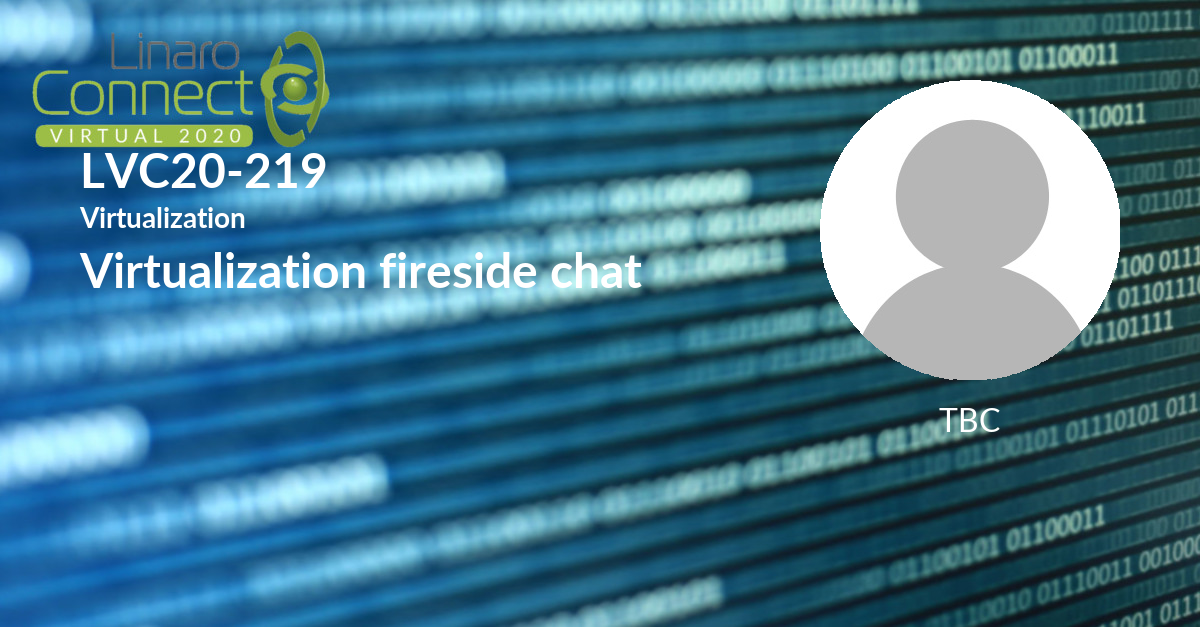
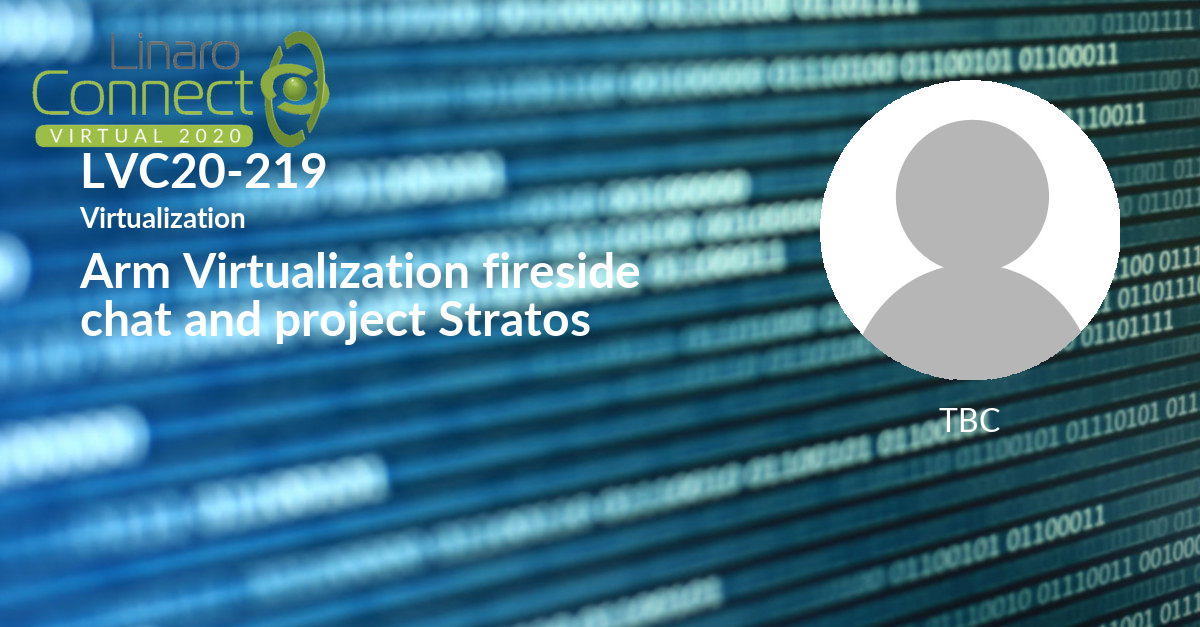
Session update for session-update-200916-1302

Changed region(s): [[0.0617, 0.3939, 0.555, 0.5455]]

diff --git a/_posts/lvc20/sessions/2020-09-16-lvc20-219.md b/_posts/lvc20/sessions/2020-09-16-lvc20-219.md
@@ -3,7 +3,7 @@ categories:
 - lvc20
 description: 'Virtualization fireside chat moderated by Mike Holmes Director of Engineering
   Foundational Technologies at &nbsp;Linaro featuring guests: Azzedine Touzni Sr.
-  Director of Engineering at Qualcomm, Alex Bennee Sr. Software engineer at Linaro.<br><br>This
+  Director of Engineering at Qualcomm, Alex Bennée Sr. Software engineer at Linaro.<br><br>This
   fireside chat covers topics such as the current challenges in the virtualization
   domain, the state of virtualization on Arm, the end vision for Stratos, how to get
   involved, and more...'
@@ -17,5 +17,5 @@ session_speakers: []
 session_track: Virtualization
 tag: session
 tags: Virtualization
-title: LVC20-219 Virtualization fireside chat
+title: LVC20-219 Arm Virtualization fireside chat and project Stratos
 ---

diff --git a/_posts/lvc20/sessions/2020-09-16-lvc20-201.md b/_posts/lvc20/sessions/2020-09-16-lvc20-201.md
@@ -24,7 +24,7 @@ session_speakers:
   speaker_image: http://avatars.sched.co/9/ca/2989076/avatar.jpg.320x320px.jpg?873
   speaker_name: Masami Hiramatsu
   speaker_position: Tech Lead, Linaro Ltd.
-  speaker_role: speaker
+  speaker_role: attendee, speaker
 session_track: Linux Kernel
 tag: session
 tags: Linux Kernel
